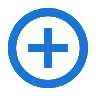
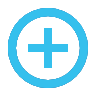
Ajustando as cores utilizadas no projeto

Changed region(s): [[0.0625, 0.0625, 0.9375, 0.9375], [0.2812, 0.2812, 0.7188, 0.7188]]

diff --git a/OrganizaTudo/src/app/paginas/notas/notas.component.html b/OrganizaTudo/src/app/paginas/notas/notas.component.html
@@ -26,8 +26,8 @@
     </div>
     <!--BUTTONS-->
     <div class="divButtons">
-      <button mat-button (click)="openDialog(nota)" style="color: #1976d2;">Editar</button>
-      <button mat-button (click)="Visualizar(nota)" style="color: #1976d2;">Visualizar</button>
+      <button mat-button (click)="openDialog(nota)" style="color: #35C0ED;">Editar</button>
+      <button mat-button (click)="Visualizar(nota)" style="color: #35C0ED;">Visualizar</button>
     </div>
   </div>
 

diff --git a/OrganizaTudo/src/app/paginas/notas/notas.component.css b/OrganizaTudo/src/app/paginas/notas/notas.component.css
@@ -78,7 +78,7 @@
 
 .titulo {
     font-weight: 500;
-    color: #1976d2;
+    color: #35C0ED;
     cursor: pointer;
     font-size: medium;
 }
@@ -107,7 +107,7 @@
 }
 
 .checkText {
-    color: #1976d2;
+    color: #35C0ED;
     font-weight: 500;
     cursor: pointer;
 }
@@ -128,10 +128,10 @@ img:focus {
 }
 
 a, a:visited, a:hover {
-    color: #1976d2;
+    color: #35C0ED;
     text-decoration: none;
 }
 
 a:hover {
-    color: #1976d2;
+    color: #35C0ED;
 }

diff --git a/OrganizaTudo/src/app/paginas/lembretes/lembretes.component.html b/OrganizaTudo/src/app/paginas/lembretes/lembretes.component.html
@@ -26,7 +26,7 @@
             <button mat-button (click)="Excluir(lembrete);"
                 style="color: red; border: 1px solid red; margin-right: 5px;">Excluir</button>
             <button mat-button [routerLink]="['/status', lembrete._id.$oid]"
-                style="color: #1976d2; border: 1px solid #1976d2">Gerar Status</button>
+                style="color: #35C0ED; border: 1px solid #35C0ED">Gerar Status</button>
         </div>
     </div>
 </div>

diff --git a/OrganizaTudo/src/app/paginas/lembretes/lembretes.component.css b/OrganizaTudo/src/app/paginas/lembretes/lembretes.component.css
@@ -76,14 +76,14 @@
 }
 
 .checkText {
-    color: #1976d2;
+    color: #35C0ED;
     font-weight: 500;
     cursor: pointer;
 }
 
 .titulo {
     font-weight: 500;
-    color: #1976d2;
+    color: #35C0ED;
     cursor: pointer;
 }
 
@@ -112,10 +112,10 @@ img:focus {
 }
 
 a, a:visited, a:hover {
-    color: #1976d2;
+    color: #35C0ED;
     text-decoration: none;
 }
 
 a:hover {
-    color: #1976d2;
+    color: #35C0ED;
 }

diff --git a/OrganizaTudo/src/app/componentes/modal-nota/nota.css b/OrganizaTudo/src/app/componentes/modal-nota/nota.css
@@ -102,7 +102,7 @@ button:focus {
     height: 25px;
     width: 2px;
     margin-left: 12px;
-    background-color: #1976d2;
+    background-color: #35C0ED;
     transform: rotate(45deg);
     Z-index: 1;
 }
@@ -110,7 +110,7 @@ button:focus {
 .md {
     height: 25px;
     width: 2px;
-    background-color: #1976d2;
+    background-color: #35C0ED;
     transform: rotate(90deg);
     Z-index: 2;
 }

diff --git a/OrganizaTudo/src/app/paginas/home/home.component.css b/OrganizaTudo/src/app/paginas/home/home.component.css
@@ -24,7 +24,7 @@ span{
     height: 60px;
     display: flex;
     align-items: center;
-    background-color: #1976d2;
+    background-color: #004d99;
     color: white;
     font-weight: 600;
 }
